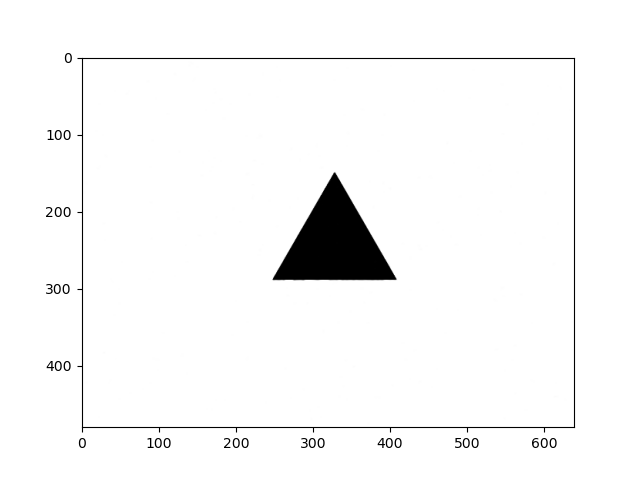
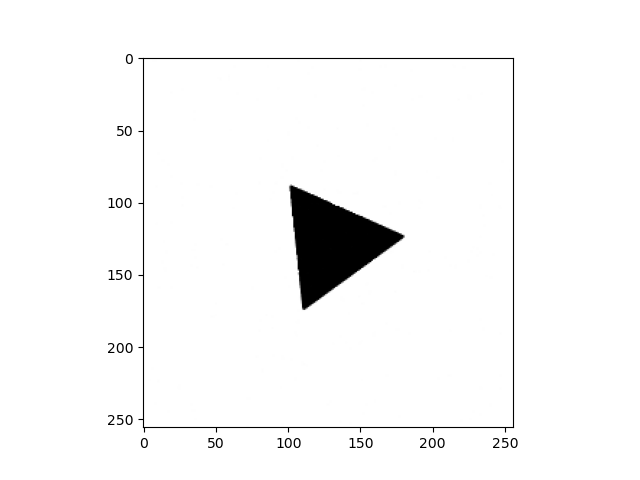
copied make_triangles from functa

diff --git a/make_triangles.py b/make_triangles.py
@@ -1,12 +1,13 @@
 import os
+import shutil
+from pathlib import Path
 import matplotlib.pyplot as plt
 import numpy as np
 from matplotlib.patches import RegularPolygon
 
 
-
-def make_triangle(orientation = 0, path = None):
-    fig, ax = plt.subplots(1)
+def make_triangle(orientation=0.0, path=None, figsize=(2, 2), dpi=128):
+    fig, ax = plt.subplots(1, figsize=figsize, dpi=dpi)
 
     # base_x_min, base_x_max = -np.sqrt(3) / 2, np.sqrt(3) / 2
     # base_y_min, base_y_max = -1 / 2, 1.
@@ -14,28 +15,32 @@ def make_triangle(orientation = 0, path = None):
     # ax.set_xlim(base_x_min - 1, base_x_max + 1)
     # ax.set_ylim(base_y_min - 1, base_y_max + 1)
 
-    ax.set_xlim(-1,1)
-    ax.set_ylim(-1,1)
+    ax.set_xlim(-1, 1)
+    ax.set_ylim(-1, 1)
 
-    ax.set_aspect('equal')
+    ax.set_aspect("equal")
 
-    triangle = RegularPolygon((0, 0),
-                                numVertices=3,
-                                radius=0.5,
-                                orientation=orientation,
-                                color = 'black')
+    triangle = RegularPolygon(
+        (0, 0), numVertices=3, radius=0.5, orientation=orientation, color="black"
+    )
 
     ax.add_patch(triangle)
-    plt.axis('off')
+    plt.axis("off")
     plt.show()
 
     if path:
         fig.savefig(path)
 
 
-if __name__ == '__main__':
-    os.makedirs('images', exist_ok=True)
+def make_triangles(dir, n=10, **kwargs):
+    if os.path.exists(dir):
+        shutil.rmtree(dir)
 
-    make_triangle(path='images/triangle1.png')
-    make_triangle(orientation=np.pi/2, path='images/triangle2.png')
+    os.makedirs(dir)
+    for i in range(n):
+        path = Path(dir) / f"triangle{i}.png"
+        make_triangle(i * 2 * np.pi / n, path, **kwargs)
 
+
+if __name__ == "__main__":
+    make_triangles("triangles", figsize=(2, 2), dpi=128)

diff --git a/test_siren_local.py b/test_siren_local.py
@@ -13,8 +13,7 @@ lr = 0.01
 device = torch.device("cuda" if torch.cuda.is_available() else "cpu")
 
 # Load and preprocess image
-img = cv2.imread("images/triangle1.png")
-img = img[:, :, 0:1]  # Make grayscale; keep final dim
+img = cv2.imread("triangles/triangle1.png")
 img = (img - img.min()) / (img.max() - img.min())  # Normalise
 img = img.transpose(2, 1, 0)
 img = torch.from_numpy(img).float()
@@ -32,7 +31,7 @@ net = SirenNet(
 )
 net.to(device)
 
-wrapper = SirenWrapper(net, image_width=480, image_height=640)
+wrapper = SirenWrapper(net, image_width=256, image_height=256)
 wrapper.to(device)
 
 optimizer = torch.optim.Adam(wrapper.parameters(), lr=lr)
